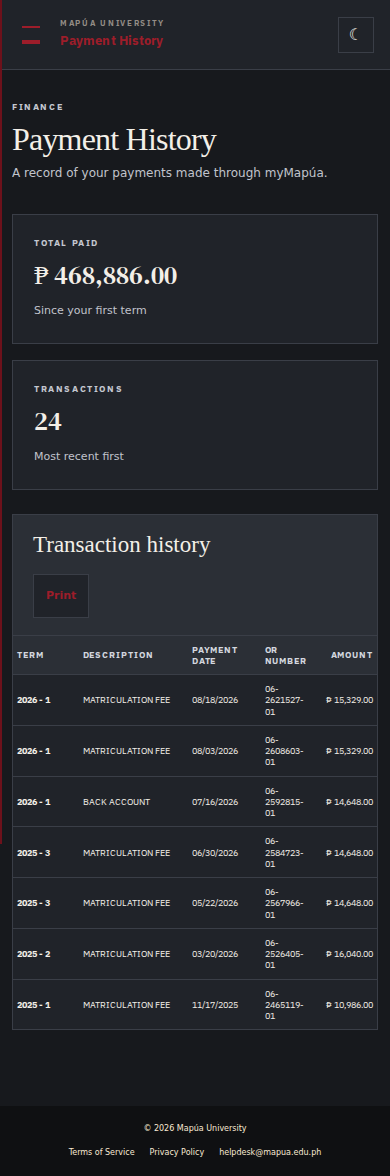
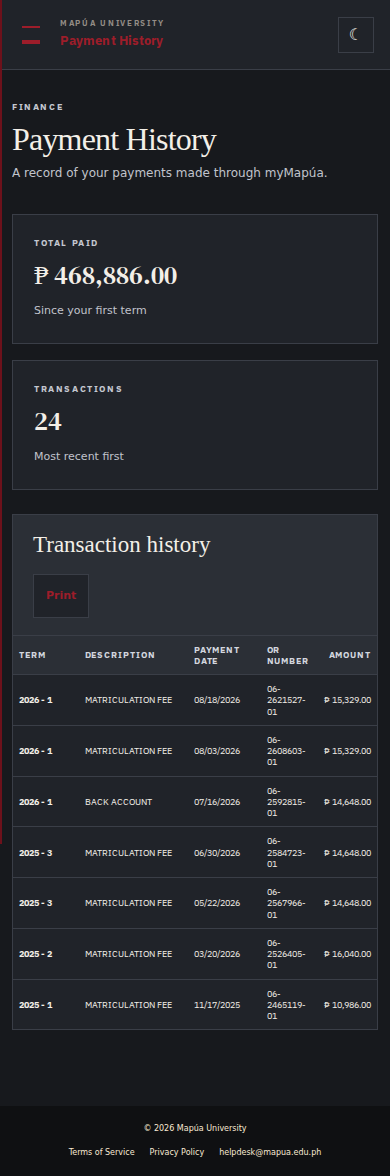
Repair mobile routed page layouts

diff --git a/mobile-fixes.css b/mobile-fixes.css
@@ -97,3 +97,122 @@
     margin-left: 0;
   }
 }
+
+/* Final mobile layout contract for routed content. */
+@media (max-width: 800px) {
+  .content .dashboard-grid {
+    display: grid !important;
+    grid-template-columns: minmax(0, 1fr) !important;
+    gap: 38px !important;
+    margin-top: 38px !important;
+  }
+
+  .content .primary-column,
+  .content .secondary-column {
+    width: 100% !important;
+    min-width: 0 !important;
+  }
+
+  .content .section-heading {
+    width: 100%;
+    min-width: 0;
+  }
+
+  .content .announcement-item,
+  .content .quick-card,
+  .content .support-card,
+  .content .schedule-card {
+    min-width: 0;
+  }
+
+  .content .schedule-mobile-list {
+    min-width: 0;
+  }
+
+  .content .schedule-mobile-list .mobile-day {
+    display: none;
+  }
+
+  .content .schedule-mobile-list .mobile-day.active {
+    display: block;
+  }
+
+  .content .grade-history-table {
+    width: 100% !important;
+    min-width: 0 !important;
+    table-layout: fixed !important;
+  }
+
+  .content .grade-history-table th,
+  .content .grade-history-table td {
+    padding-inline: 8px !important;
+    overflow-wrap: anywhere;
+  }
+
+  .content .grade-history-table th:nth-child(1),
+  .content .grade-history-table td:nth-child(1) { width: 34% !important; }
+  .content .grade-history-table th:nth-child(2),
+  .content .grade-history-table td:nth-child(2) { width: 23% !important; }
+  .content .grade-history-table th:nth-child(3),
+  .content .grade-history-table td:nth-child(3) { width: 18% !important; }
+  .content .grade-history-table th:nth-child(4),
+  .content .grade-history-table td:nth-child(4) { width: 15% !important; }
+  .content .grade-history-table th:nth-child(5),
+  .content .grade-history-table td:nth-child(5) { display: none !important; }
+
+  .content .curriculum-table-wrap,
+  .content .soa-table {
+    overflow-x: auto !important;
+    overscroll-behavior-x: contain;
+  }
+
+  .content .curriculum-table {
+    width: 820px !important;
+    min-width: 820px !important;
+    table-layout: fixed !important;
+  }
+
+  .content .curriculum-table th,
+  .content .curriculum-table td {
+    white-space: normal;
+    overflow-wrap: break-word;
+  }
+
+  .content .soa-table table {
+    width: 680px !important;
+    min-width: 680px !important;
+    table-layout: fixed !important;
+  }
+
+  .content .soa-table .table-title {
+    position: sticky;
+    left: 0;
+  }
+
+  .content .payment-history-table {
+    width: 100% !important;
+    min-width: 0 !important;
+    table-layout: fixed !important;
+  }
+
+  .content .payment-history-table th,
+  .content .payment-history-table td {
+    padding-inline: 6px !important;
+    overflow-wrap: anywhere;
+  }
+
+  .content .certificate-card {
+    width: 100% !important;
+    padding: 24px 22px !important;
+  }
+
+  .content .certificate-card h2 {
+    max-width: 100%;
+    font-size: 20px;
+  }
+
+  .content .certificate-card p {
+    max-width: 100%;
+    font-size: 11px;
+  }
+}
